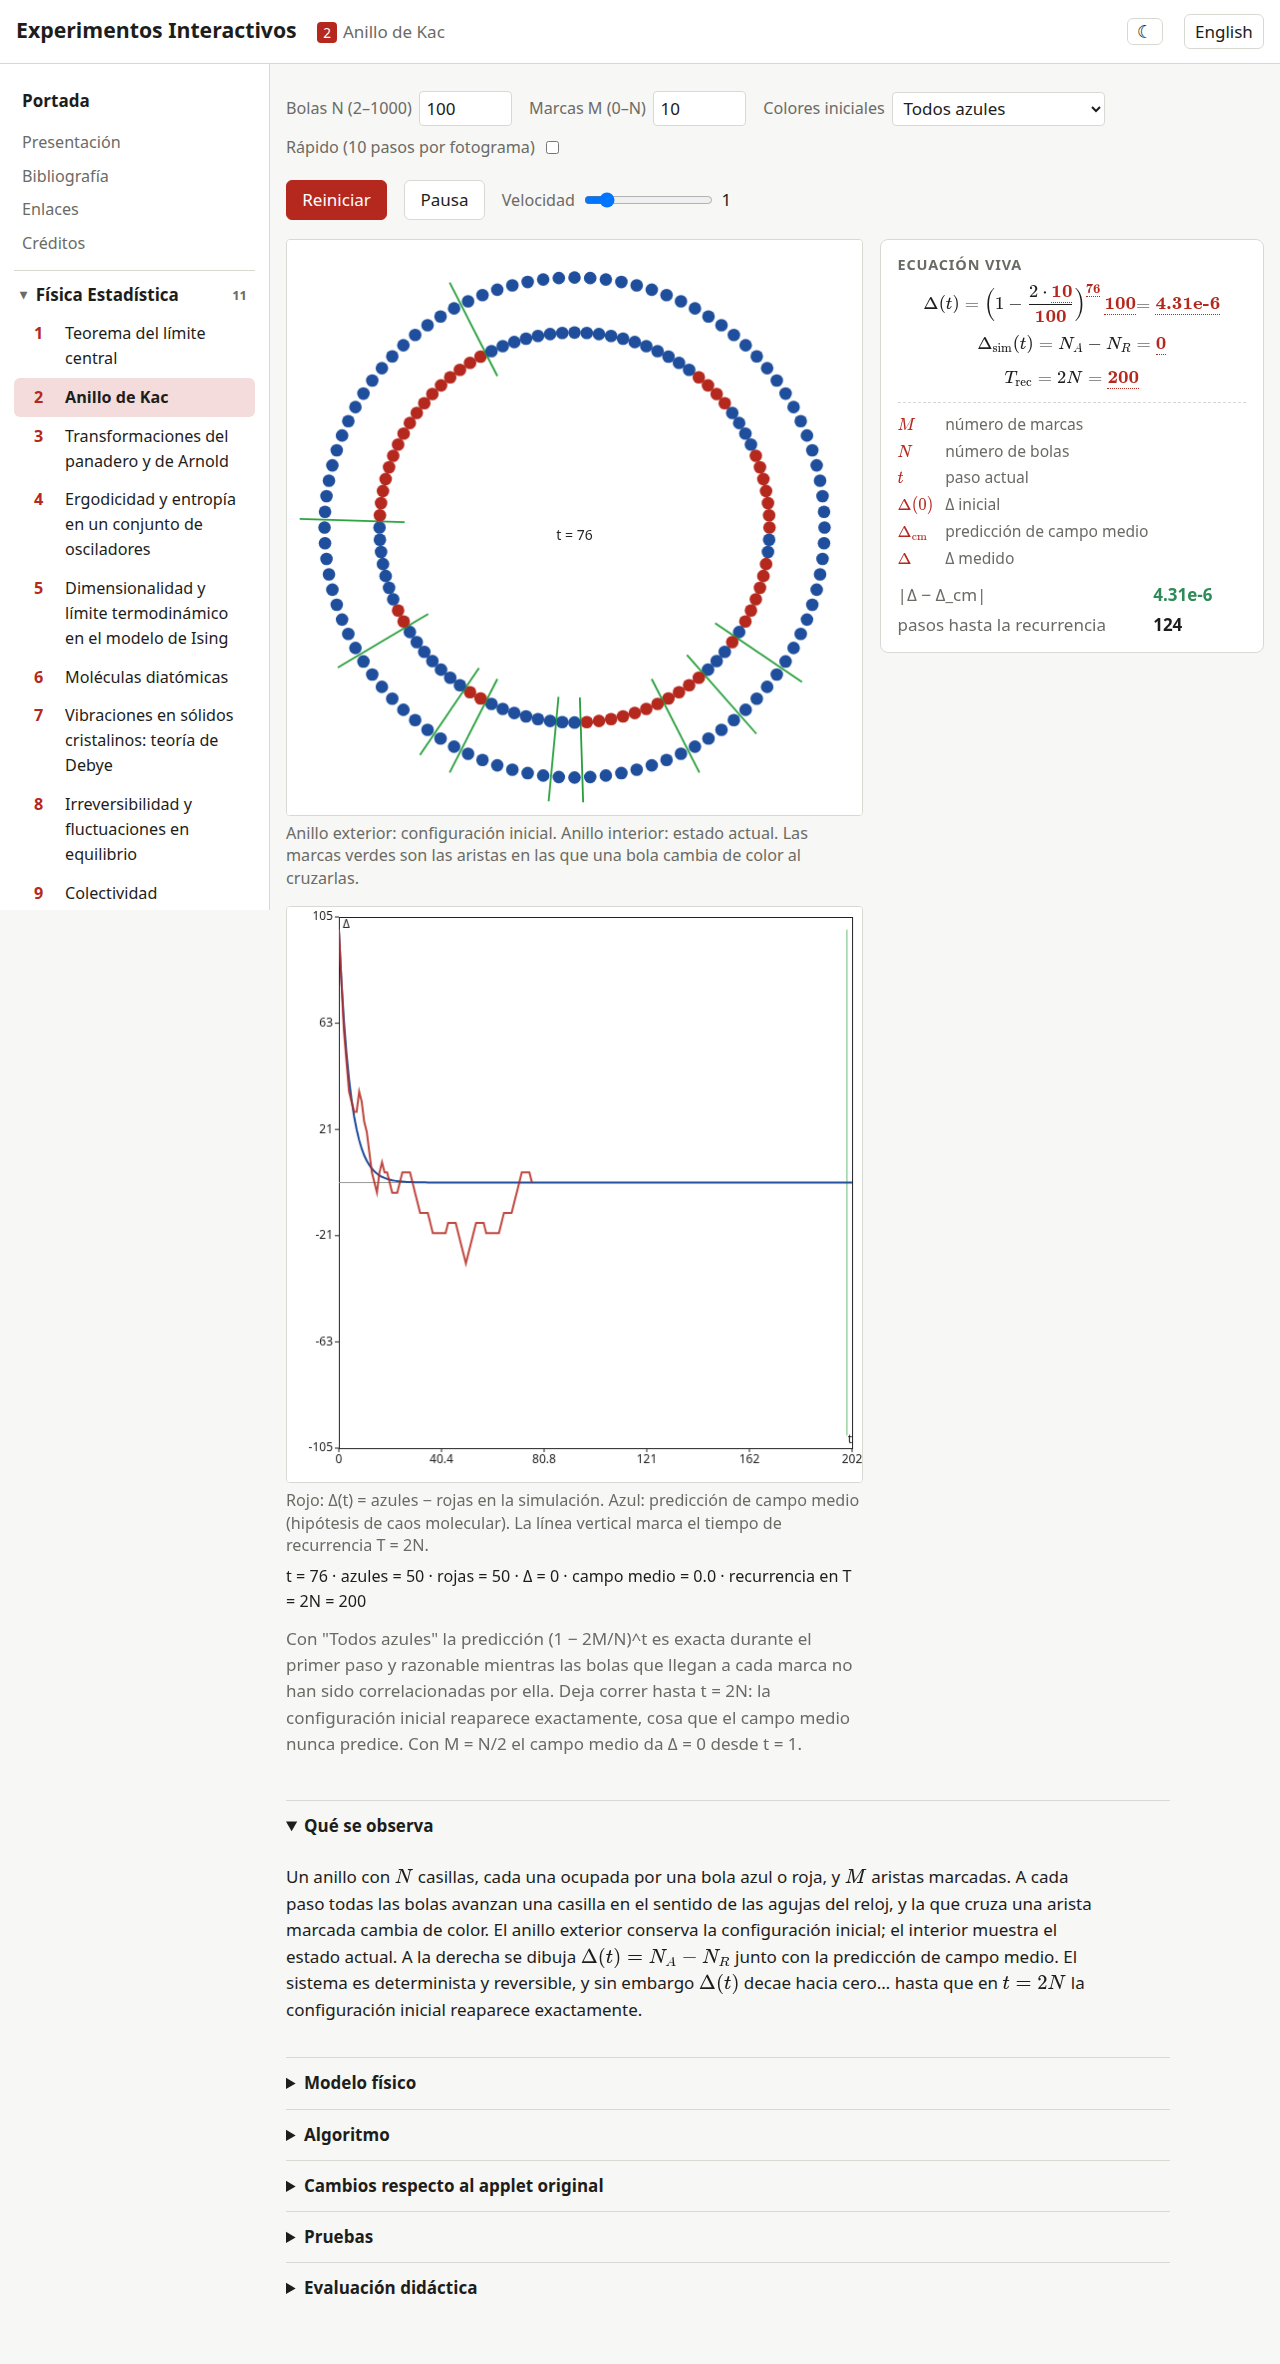
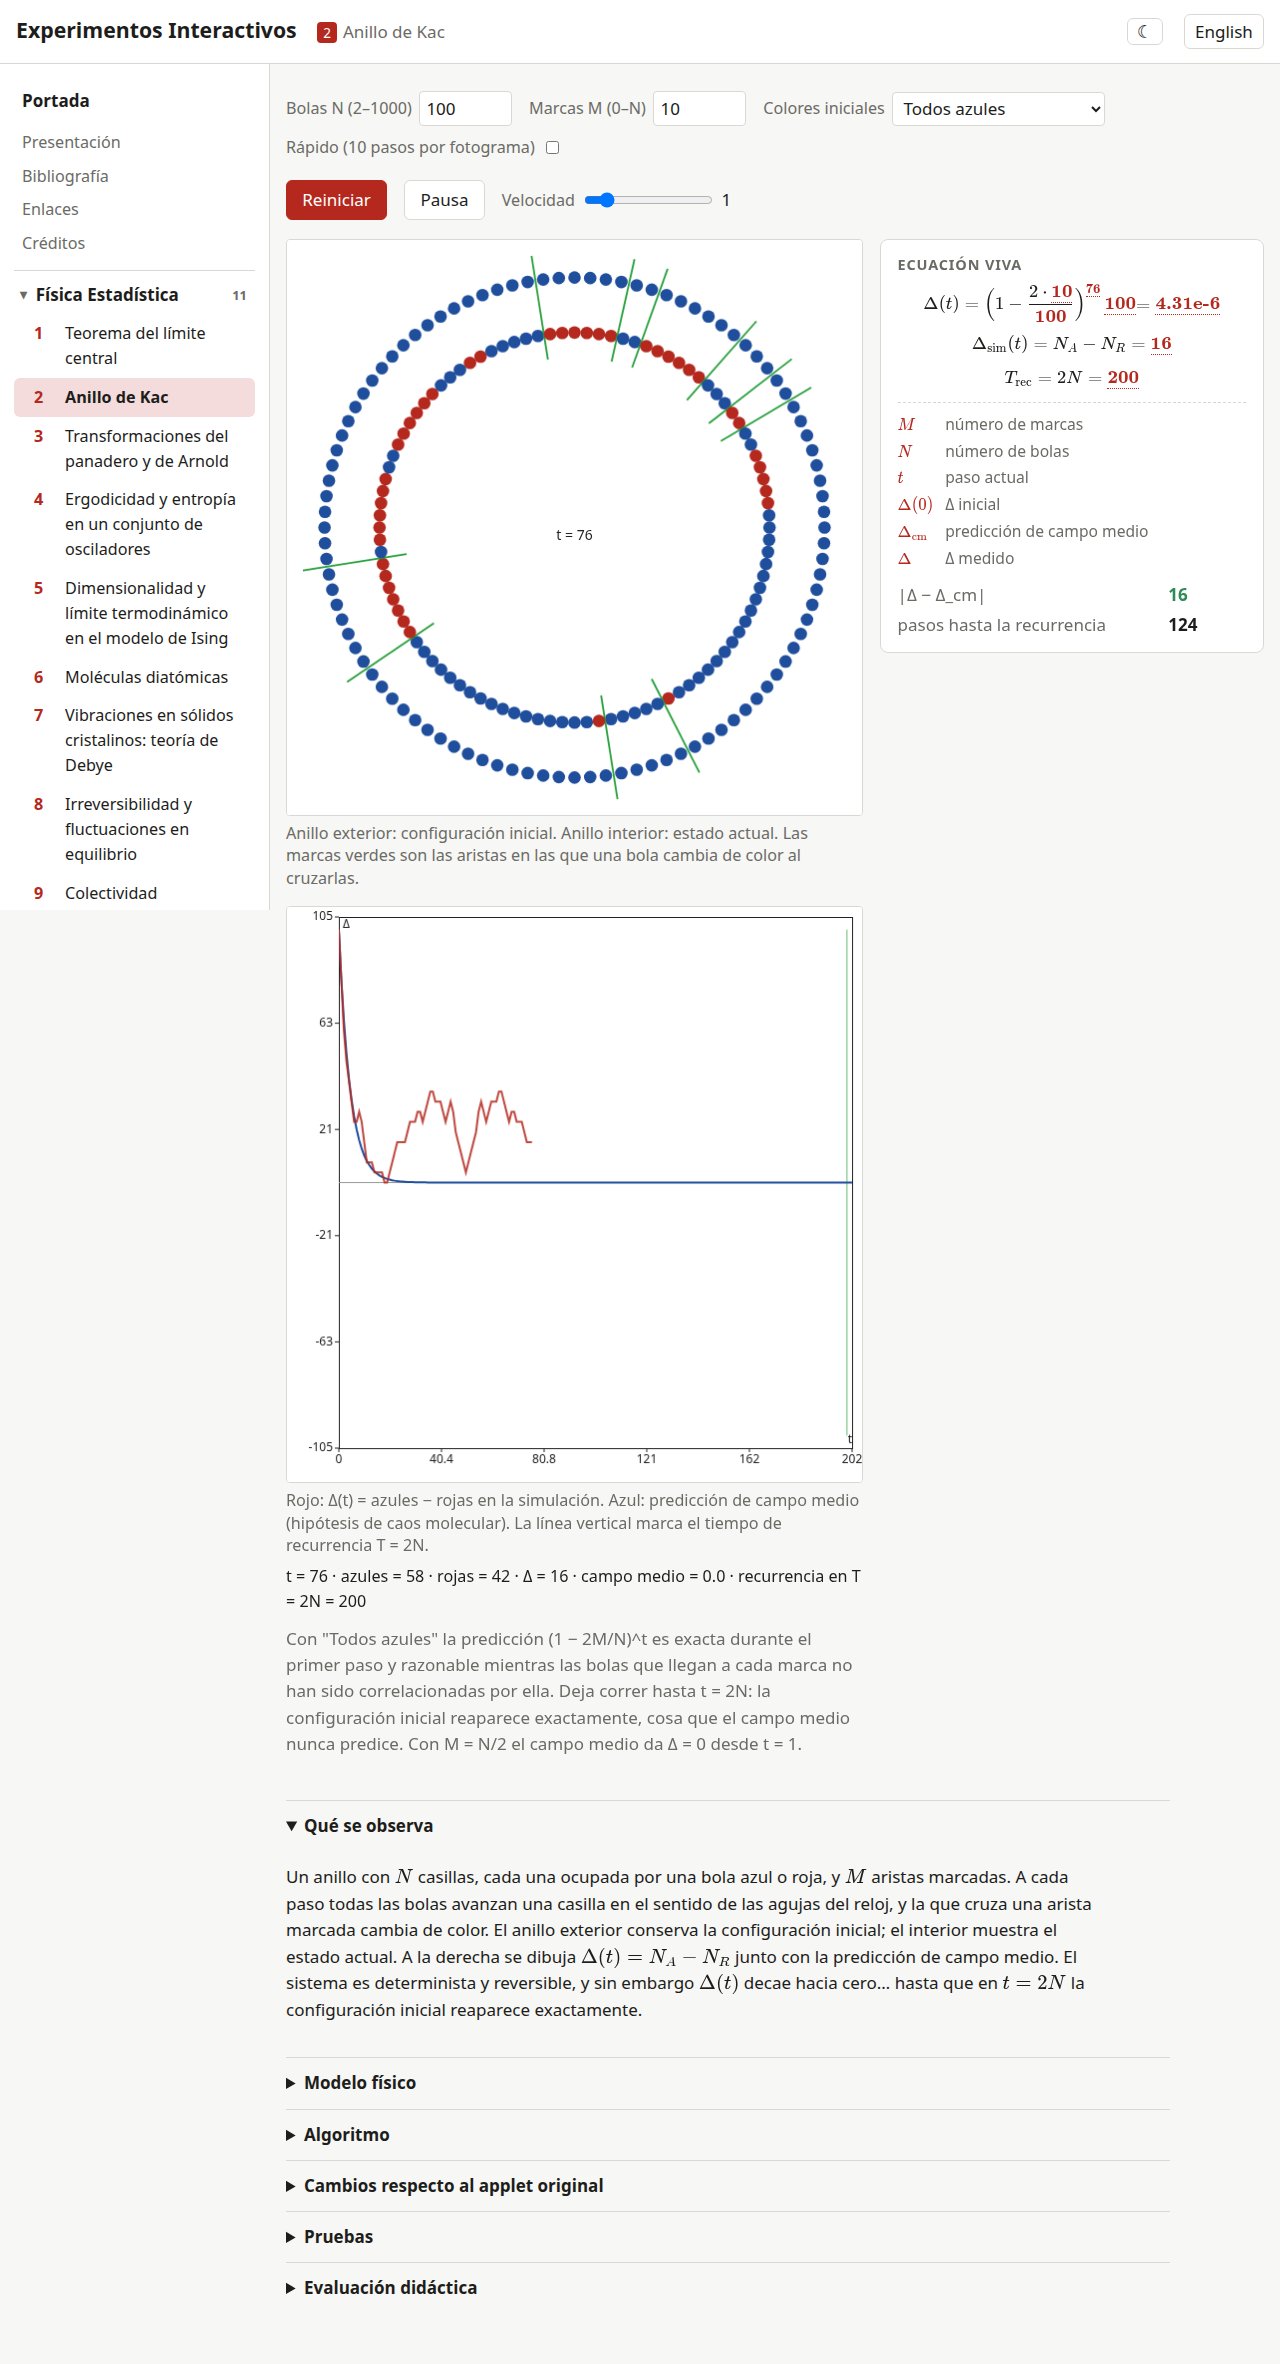
hero: one Ising sweep per second, slower smoothing

diff --git a/lib/hero.js b/lib/hero.js
@@ -35,7 +35,7 @@ function parseColor(c) {
 // frames), and the picture is an exponential moving average of the spins so single flips do not
 // flicker; only the slow motion of the critical clusters is visible. With prefers-reduced-motion
 // the image is static.
-export function startHero(canvas, { nx = 192, ny = 108, K = 0.4407, framesPerSweep = 8, smoothing = 0.12, fps = 30 } = {}) {
+export function startHero(canvas, { nx = 192, ny = 108, K = 0.4407, framesPerSweep = 30, smoothing = 0.05, fps = 30 } = {}) {
   const st = createIsing(nx, ny, K);
   for (let i = 0; i < 40; i++) sweep(st); // start with critical-looking clusters
   const ctx = canvas.getContext('2d');
